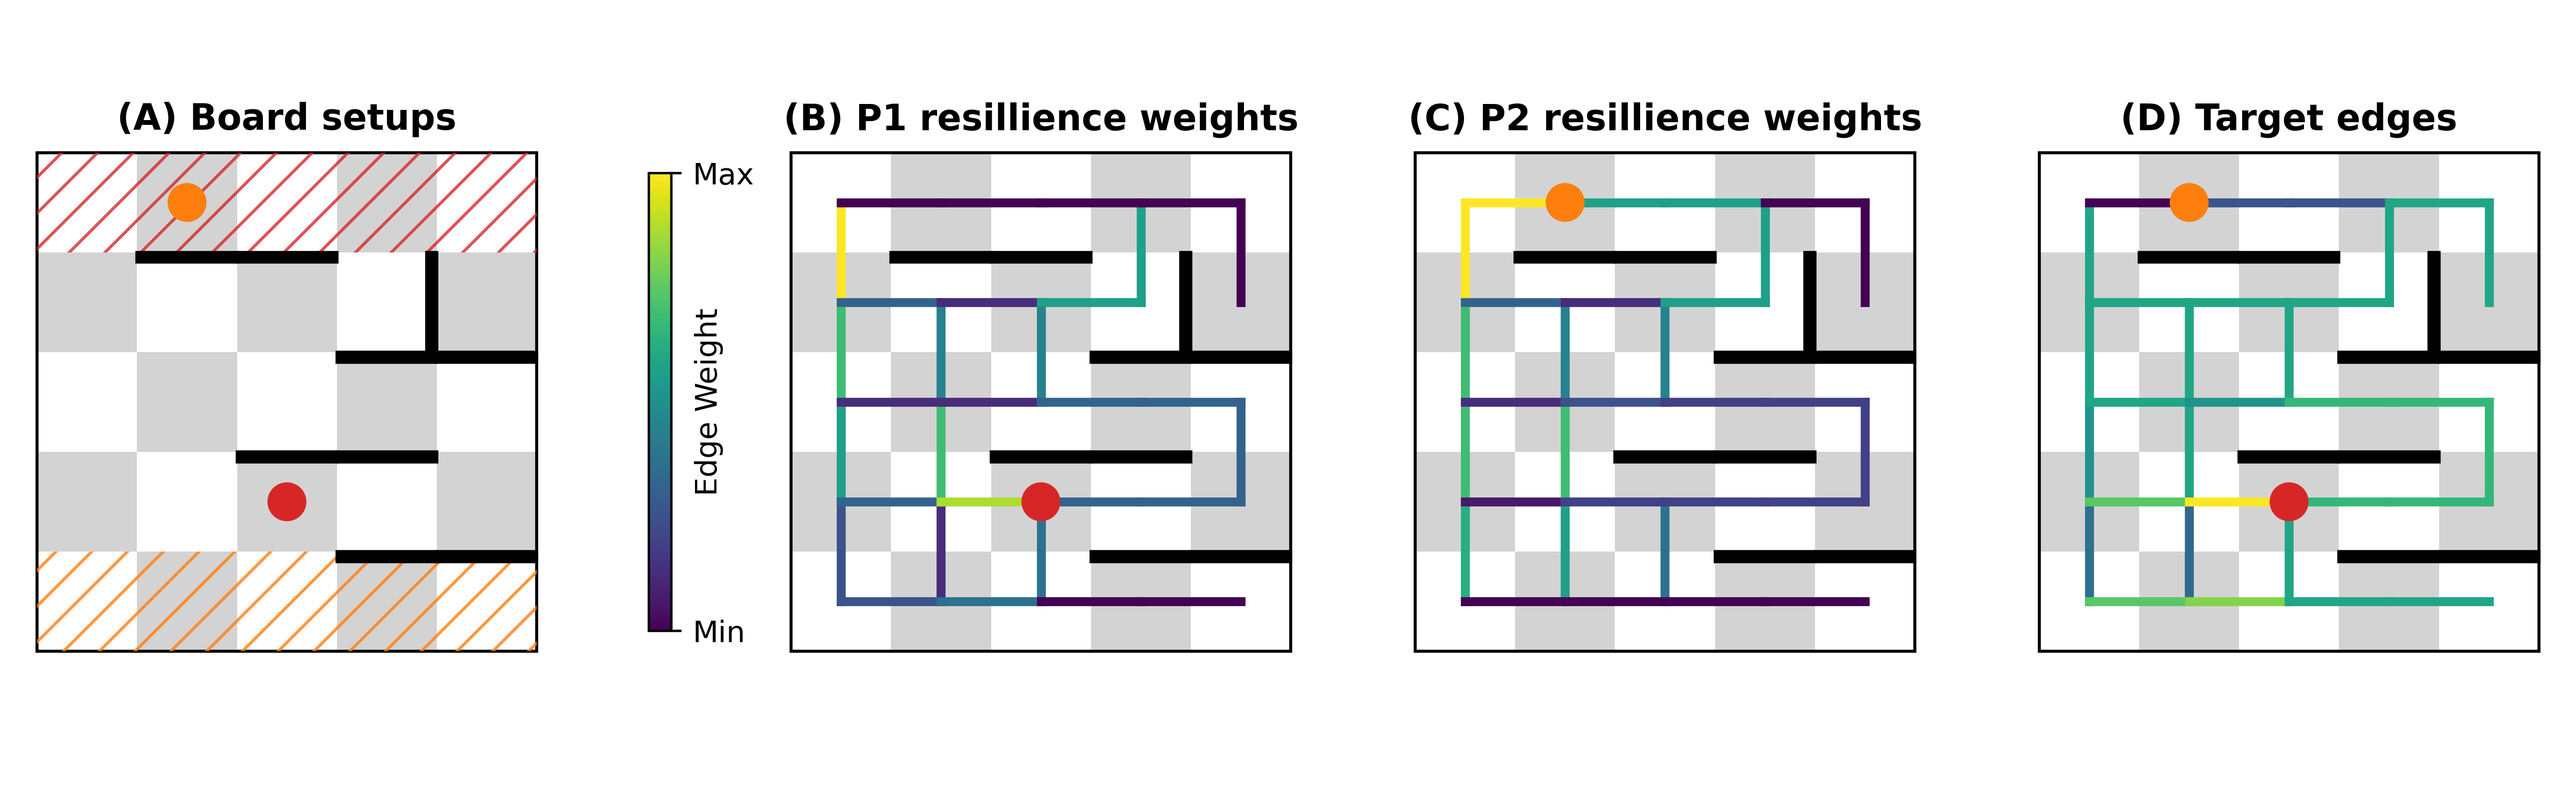
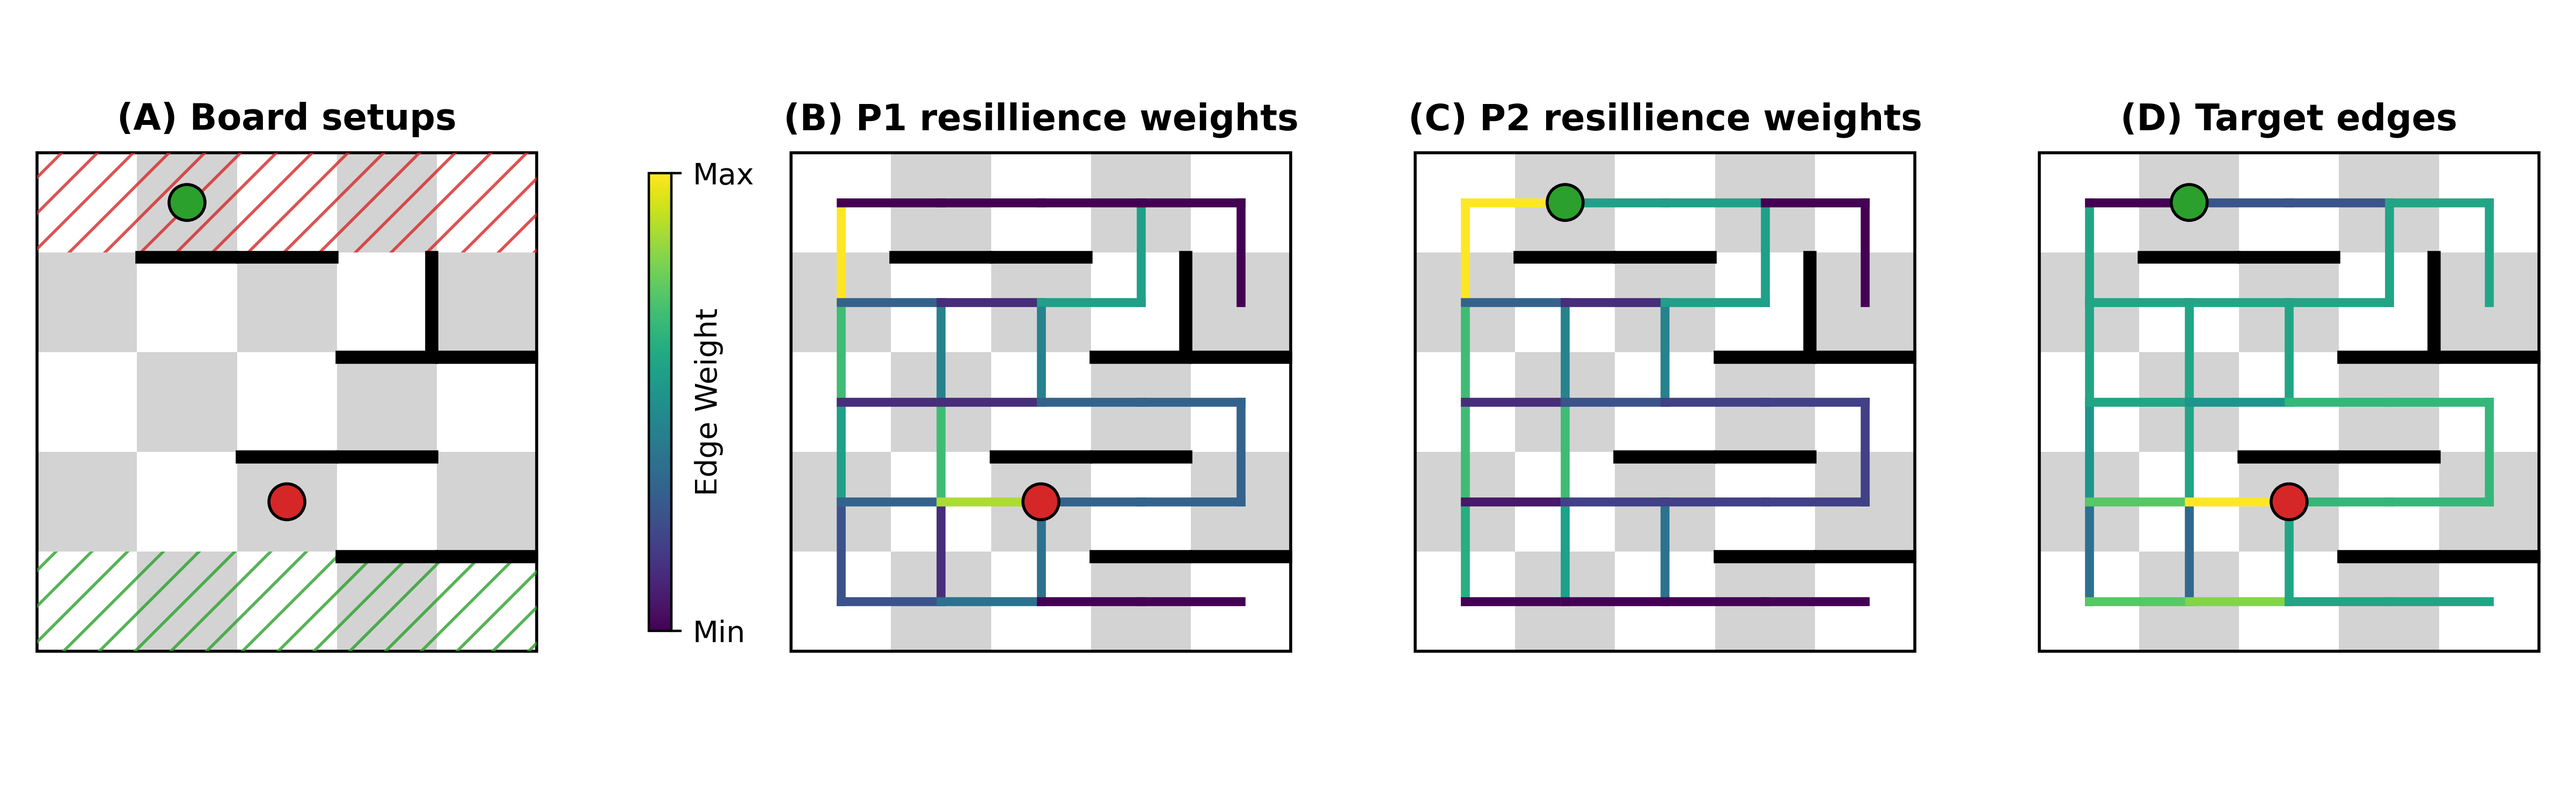
Figure pawn as green

diff --git a/second_attempt/path_resilience.py b/second_attempt/path_resilience.py
@@ -111,14 +111,14 @@ def add_weight_to_path_edges(path, delta):
 
 
 graph_original = deepcopy(graph)
-for _ in range(100):
+for _ in range(25):
     path1 = dijkstra_path(pawn1_pos)
     add_weight_to_path_edges(path1, 2)
 
 graph_path1 = deepcopy(graph)
 graph = deepcopy(graph_original)
 
-for _ in range(100):
+for _ in range(25):
     path2 = dijkstra_path(pawn2_pos, target="bottom")
     add_weight_to_path_edges(path2, 2)
 
@@ -131,7 +131,7 @@ def render(ax, title_text, graph_input, pawns_to_render, colorbar=False):
     ax.set_aspect("equal")
     ax.axis("off")
 
-    ax.set_title(title_text, fontweight='bold')
+    ax.set_title(title_text, fontweight="bold")
 
     # Draw squares
     for row in range(board_size):
@@ -148,7 +148,9 @@ def render(ax, title_text, graph_input, pawns_to_render, colorbar=False):
     # Draw pawns
     def draw_pawn(pos, color="black"):
         row, col = pos
-        circ = patches.Circle((col + 0.5, row + 0.5), 0.18, color=color, zorder=10)
+        circ = patches.Circle(
+            (col + 0.5, row + 0.5), 0.18, facecolor=color, zorder=10, edgecolor="black"
+        )
         ax.add_patch(circ)
 
     # Draw fences
@@ -187,7 +189,7 @@ def render(ax, title_text, graph_input, pawns_to_render, colorbar=False):
         draw_pawn(pawn1_pos, color="tab:red")
 
     if 2 in pawns_to_render:
-        draw_pawn(pawn2_pos, color="tab:orange")
+        draw_pawn(pawn2_pos, color="tab:green")
 
     # draw_path(path1, 'blue')
     # draw_path(path2, 'green')
@@ -240,7 +242,7 @@ def render(ax, title_text, graph_input, pawns_to_render, colorbar=False):
             1,
             hatch="//",
             fill=False,
-            edgecolor="tab:orange",
+            edgecolor="tab:green",
             alpha=0.8,
             linestyle="none",
         )

diff --git a/report/report.tex b/report/report.tex
@@ -95,7 +95,7 @@ After several iterations, edges that are difficult to avoid will accumulate extr
 \begin{figure}[H]
     \centering
     \includegraphics[width=\linewidth]{path_figure.png}
-    \caption{\textbf{Path resiliency.} \textbf{(A)} An example position of the board. Player 1 is red; Player 2 is orange; Walls are black lines. Hashed regions denote the goal area a player must reach to win. \textbf{(B, C)} Resiliency weights of players 1 and 2, respectively. Higher values indicate that the edge is harder to avoid when finding alternative short paths to the goal area. \textbf{(D)} Calculated as player 1 resiliency weights minus player 2 resiliency weights. A high values indicates that the edge is very damaging to player 1 when blocked, while not damaging to player 2. In this example, a fence placed directly to the left of player 1 would require major detours for player 1 without interrupting many of player 2's paths to the goal. Thus, it has a high weight.}
+    \caption{\textbf{Path resiliency.} \textbf{(A)} An example position of the board. Player 1 is red; Player 2 is green; Walls are black lines. Hashed regions denote the goal area a player must reach to win. \textbf{(B, C)} Resiliency weights of players 1 and 2, respectively. Higher values indicate that the edge is harder to avoid when finding alternative short paths to the goal area. \textbf{(D)} Calculated as player 1 resiliency weights minus player 2 resiliency weights. A high values indicates that the edge is very damaging to player 1 when blocked, while not damaging to player 2. In this example, a fence placed directly to the left of player 1 would require major detours for player 1 without interrupting many of player 2's paths to the goal. Thus, it has a high weight.}
     \label{fig:resiliency}
 \end{figure}
 
